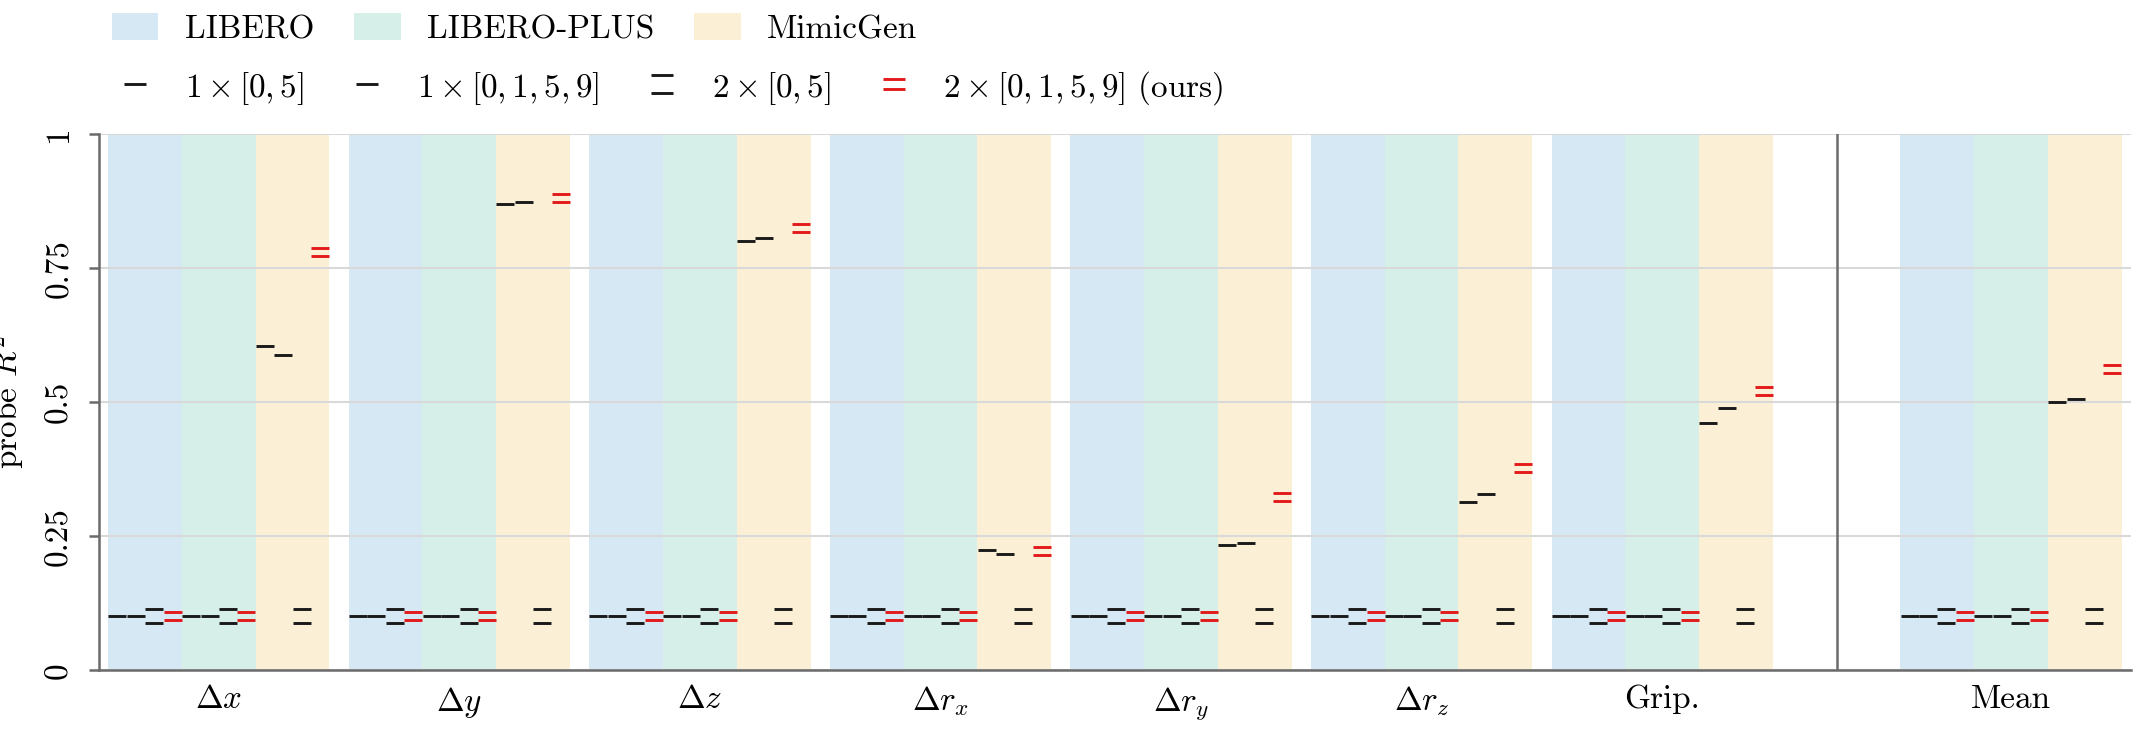
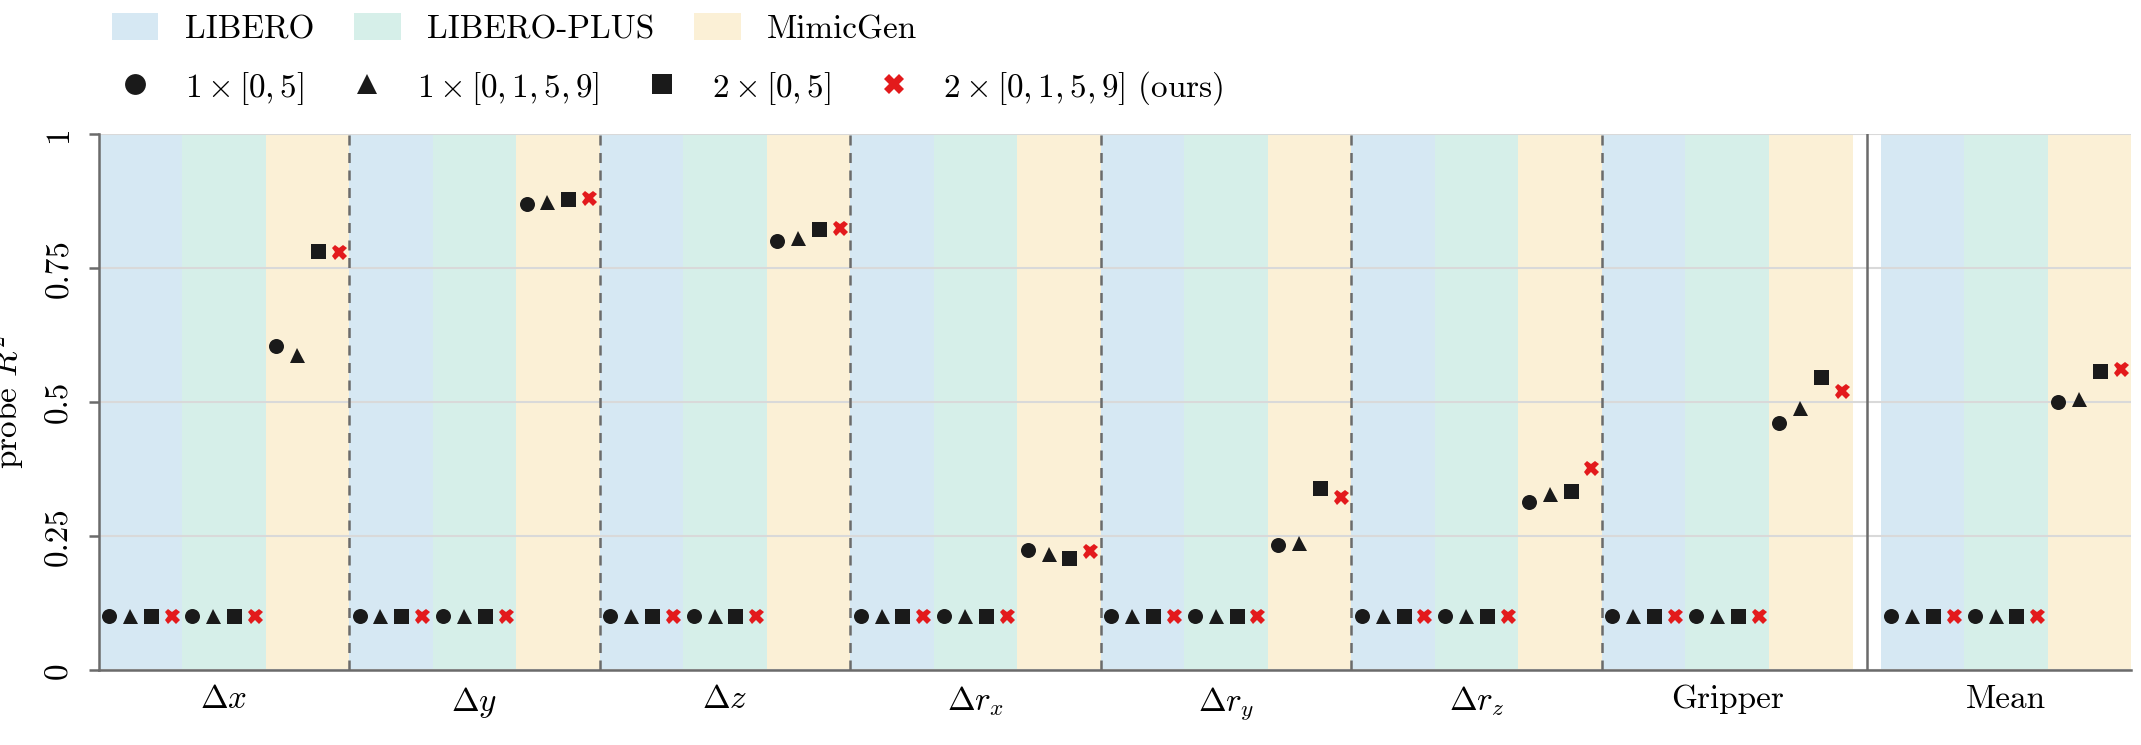
feat: probing figure -- dashed dim separators, no white group gaps
Drop the white space between action-dimension groups (scarce horizontal
room) and mark each boundary with a dashed rule instead; the grip|mean
divider stays a solid line, and its gap is trimmed. Rename Grip. -> Gripper.

diff --git a/plot_probing.py b/plot_probing.py
@@ -114,7 +114,7 @@ AXIS_LABELS = {
     "delta_rx": r"$\Delta r_x$",
     "delta_ry": r"$\Delta r_y$",
     "delta_rz": r"$\Delta r_z$",
-    "gripper": "Grip.",
+    "gripper": "Gripper",
     "all_dims": "Mean",
 }
 
@@ -230,20 +230,22 @@ def mark_colour(method):
 def layout(n_groups, n_suites, n_methods, has_mean, axes_width_in):
     """Mark positions, in group units, plus the resulting pitch in points.
 
-    A group is 1.0 wide and holds n_suites bands side by side; each band holds
-    n_methods marks on a regular pitch, padded by half a pitch at both ends so a
-    mark never touches a band edge. GROUP_GAP is white space between groups --
-    with the bands filling the group, that gap is the only thing left drawing
-    the group boundary, so it cannot go to zero.
+    A group is 1.0 wide and holds n_suites bands side by side, filling it edge
+    to edge; each band holds n_methods marks on a regular pitch, padded by half
+    a pitch at both ends so a mark never touches a band edge.
+
+    No white gap between groups: horizontal room is the scarce resource here, so
+    the bands run the full group width and a dashed rule (drawn in main) marks
+    each group boundary instead. A gap would spend page width on separation that
+    a hairline gives for free.
     """
-    GROUP_GAP = 0.08
-    band_w = (1.0 - GROUP_GAP) / n_suites
+    band_w = 1.0 / n_suites
     pitch = band_w / n_methods
-    first = -(1.0 - GROUP_GAP) / 2
+    first = -0.5
 
     x = np.arange(n_groups, dtype=float)
     if has_mean:
-        x[-1] += 0.45
+        x[-1] += 0.1125
     span_units = (x[-1] + 0.5) - (x[0] - 0.5)
     pitch_pt = pitch * (axes_width_in / span_units) * 72
 
@@ -405,6 +407,17 @@ def main():
                 # never the one hidden under a neighbour.
                 zorder=4 if ours else 3,
             )
+
+    # Group separators. With the bands filling each group there is no white gap
+    # left to show where one action dimension ends and the next begins, so a
+    # dashed rule draws every dimension-to-dimension boundary. The grip|mean
+    # boundary is drawn solid below instead: the mean is an aggregate of the
+    # dimensions to its left, not another dimension, and the heavier, continuous
+    # rule is what says so.
+    n_regular = n_groups - 1 if has_mean else n_groups
+    for gi in range(n_regular - 1):
+        ax.axvline(x[gi] + 0.5, color=style.INK_MUTED, linewidth=0.6,
+                   linestyle=(0, (4, 3)), zorder=1)
 
     if has_mean:
         ax.axvline(x[-1] - 0.5 - (x[-1] - x[-2] - 1) / 2,
